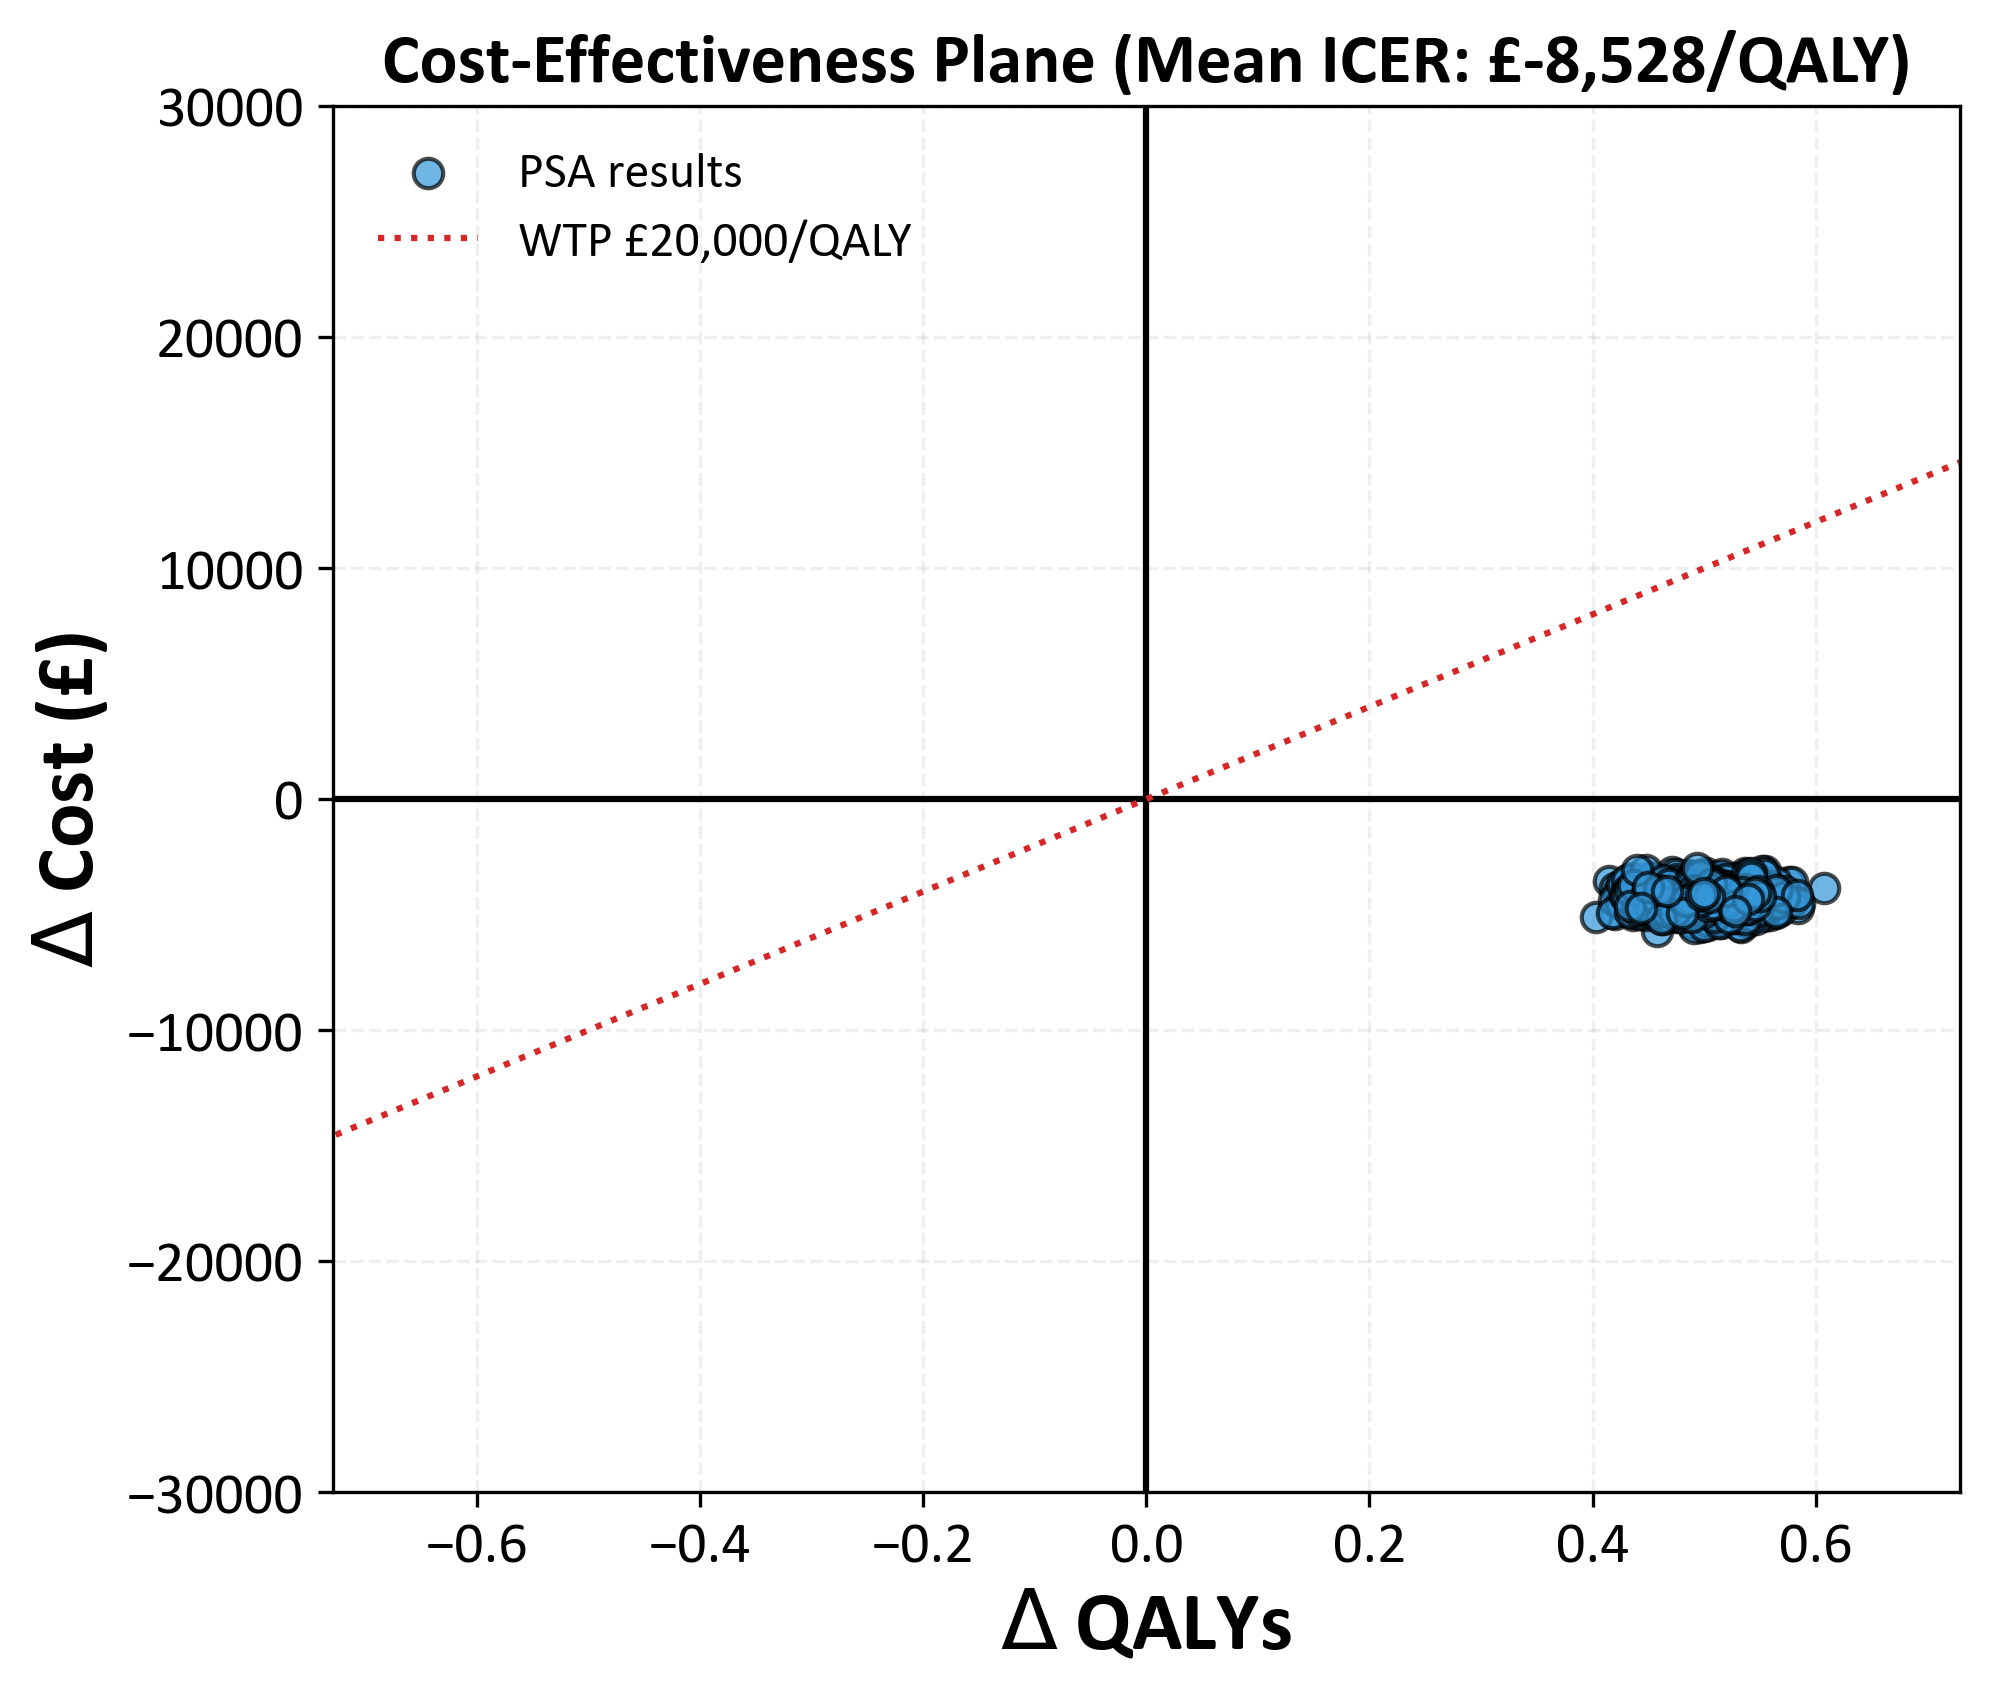
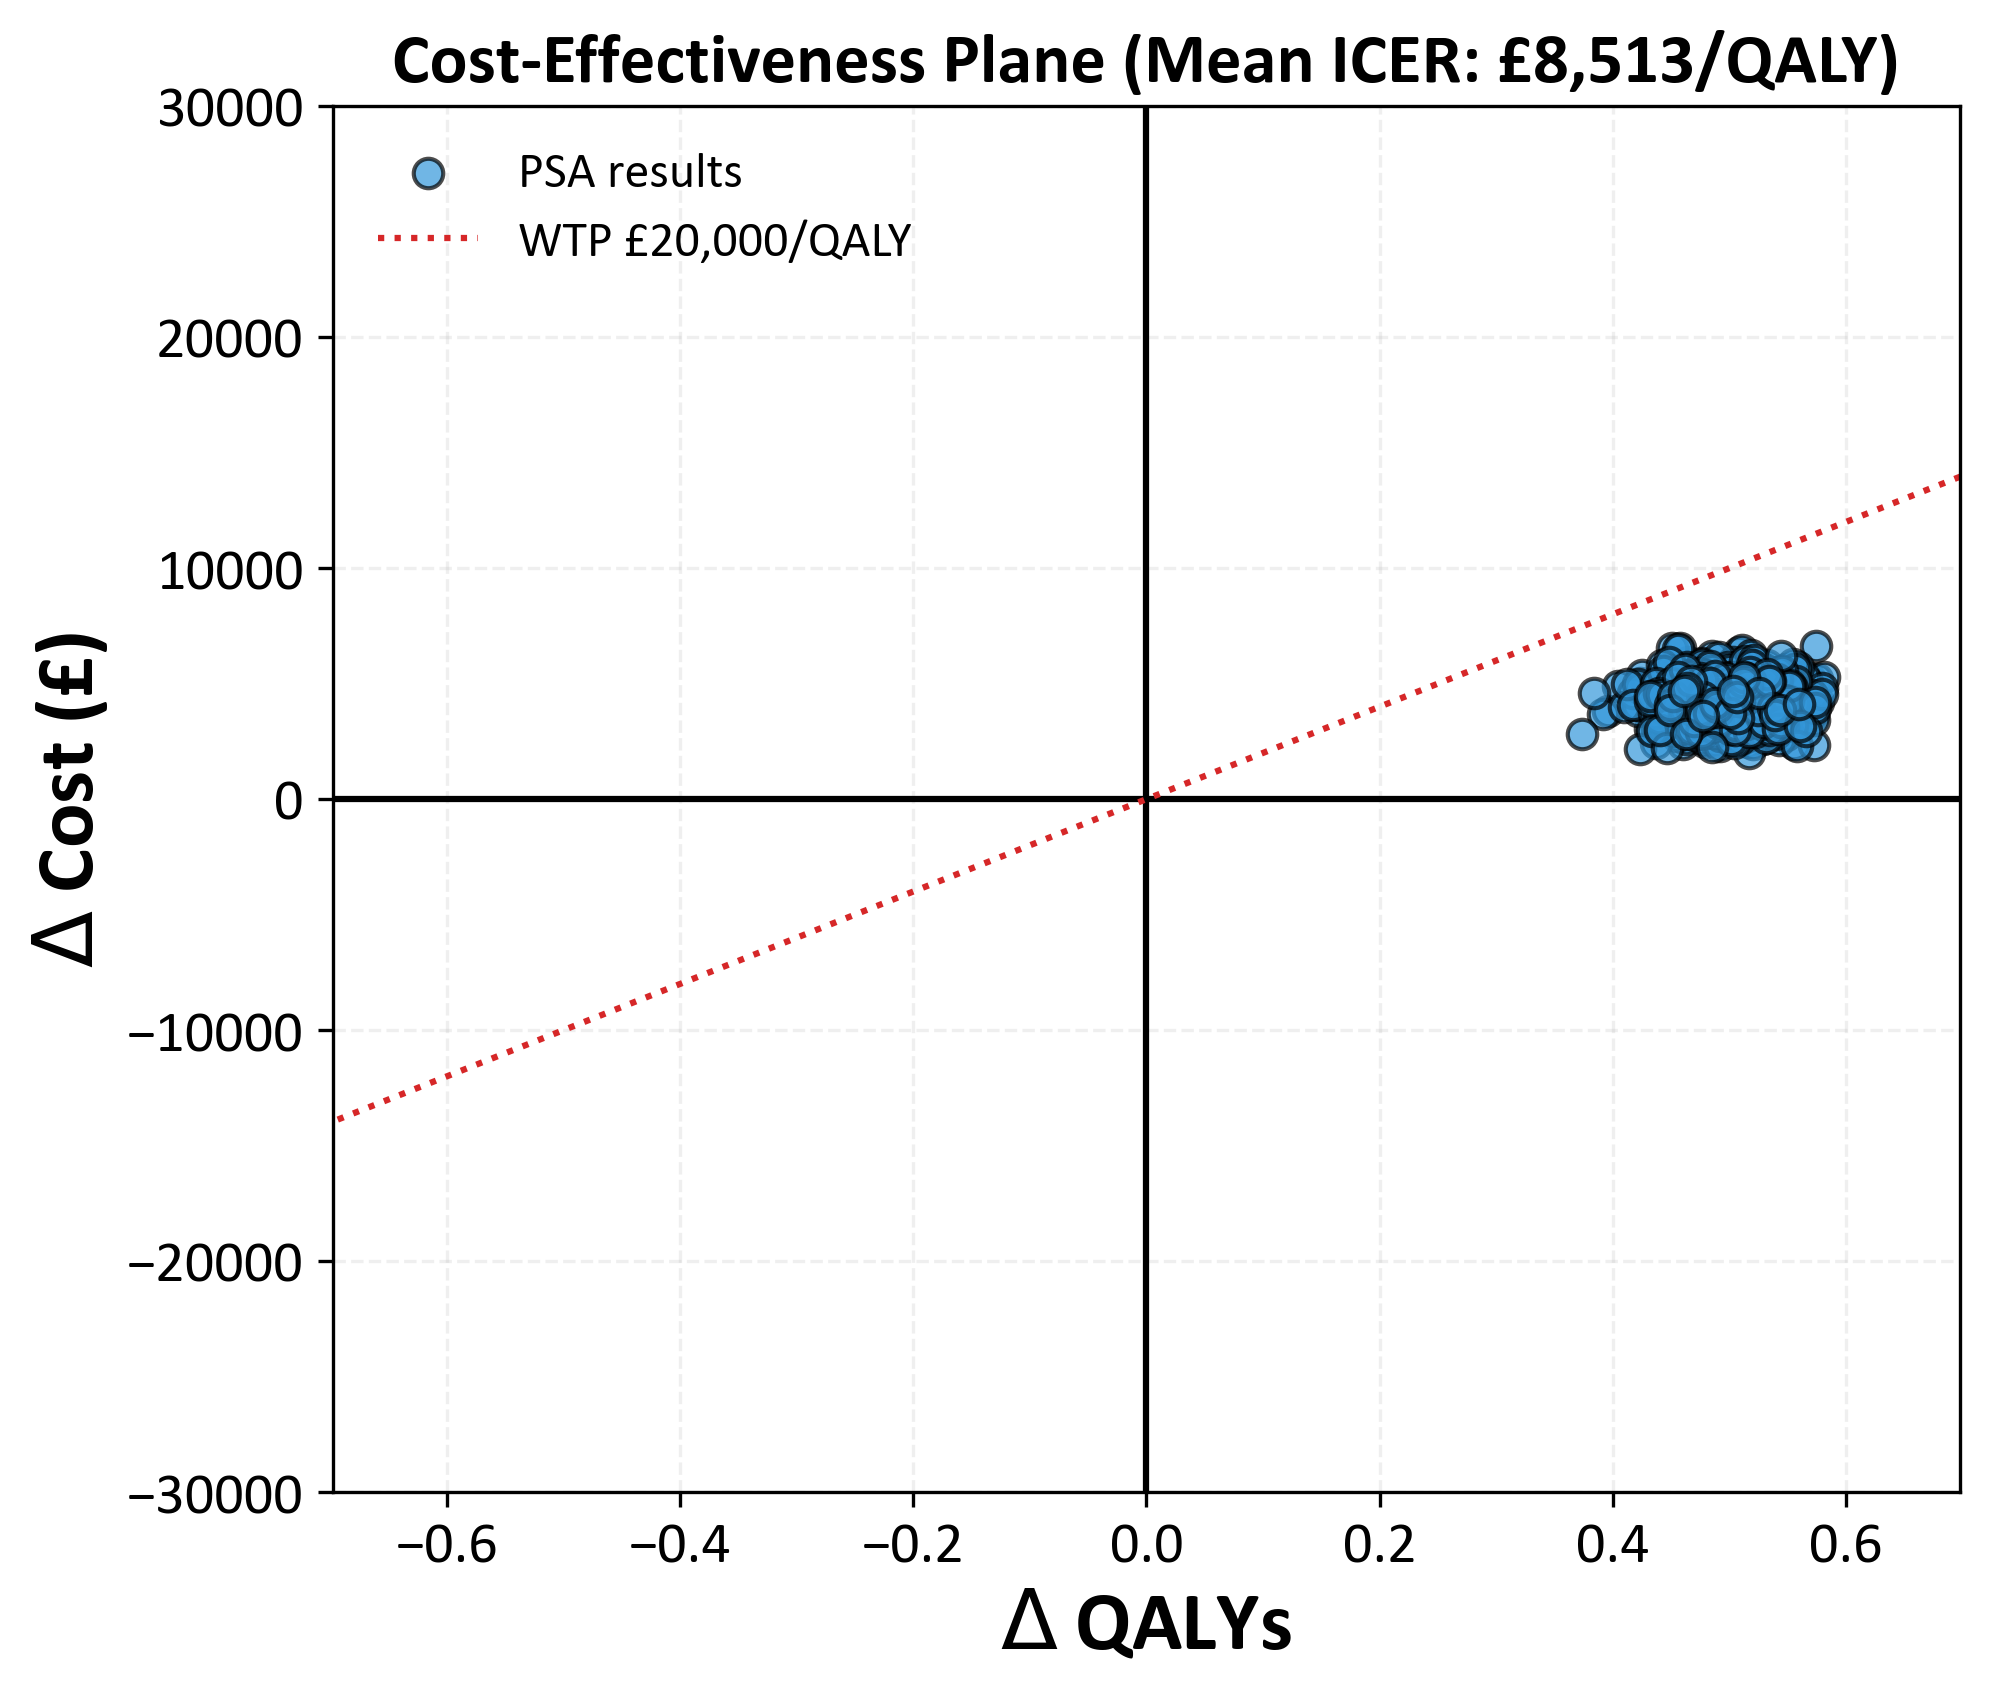
Add files via upload

diff --git a/cost_effectiveness_analysis_PSA.py b/cost_effectiveness_analysis_PSA.py
@@ -19,7 +19,7 @@ import matplotlib.pyplot as plt
 # Define key financial and health-related variables for interventions
 ######################################################################################################################################################
 cost_intervention_A = 10000  # Base cost in GBP for standard intervention
-cost_intervention_B = 5000  # Base cost in GBP for new intervention
+cost_intervention_B = 15000  # Base cost in GBP for new intervention
 
 qaly_intervention_A = 2 # Quality-Adjusted Life Years for A
 qaly_intervention_B = 2.5  # Quality-Adjusted Life Years for B
